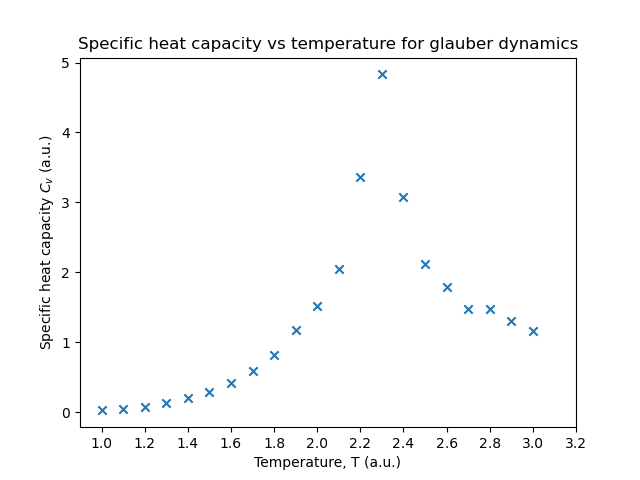
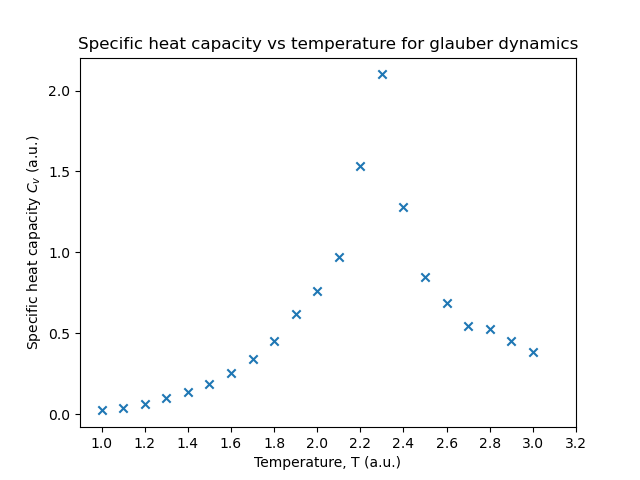
fixed heat capacity calculation

diff --git a/checkpoint_1/find_obs_average.py b/checkpoint_1/find_obs_average.py
@@ -27,7 +27,7 @@ for i in range(len(data)):
     energy.append(np.average(data[i][0][:]))
     magnetisation.append(np.average(np.absolute(data[i][1][:])))
     succeptibility.append((np.average(np.absolute(data[i][1][:])**2) - np.average(np.absolute(data[i][1][:]))**2)/(2500*temperature[i]))
-    heat_capacity.append((np.average(np.absolute(data[i][0][:])**2) - np.average(np.absolute(data[i][0][:]))**2)/(2500*temperature[i]))
+    heat_capacity.append((np.average(np.absolute(data[i][0][:])**2) - np.average(np.absolute(data[i][0][:]))**2)/(2500*temperature[i]**2))
 
 header= str('temperature, avr_energy, avr_magnetisation, heat_capacity, succeptibility')
 output= np.array([temperature, energy, magnetisation, heat_capacity, succeptibility]).T
